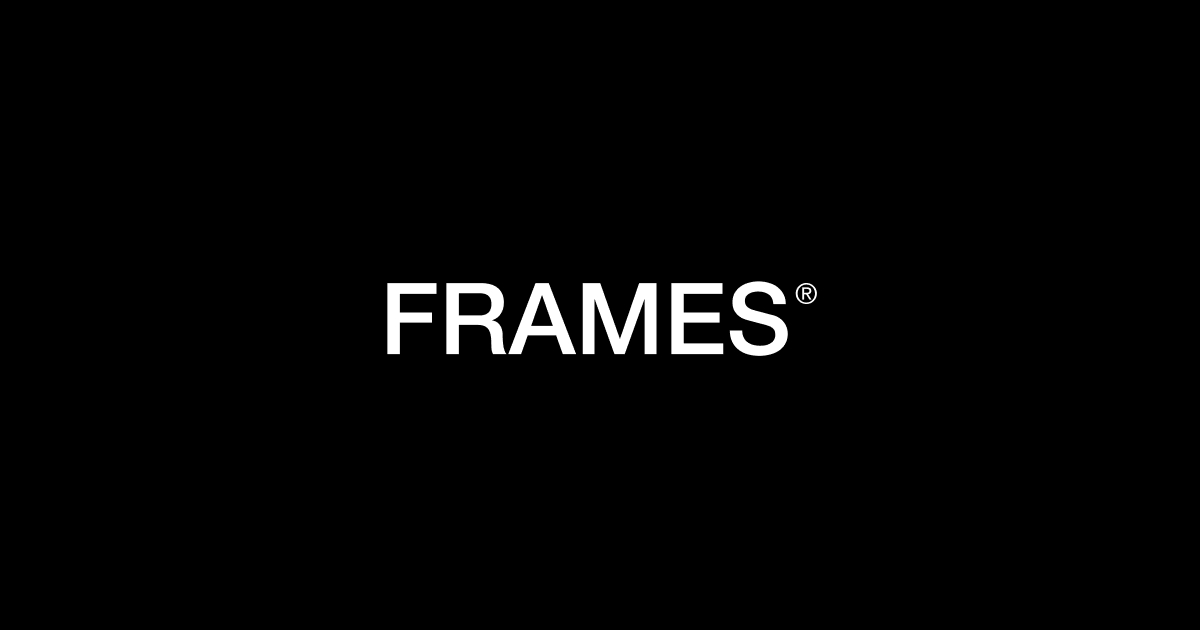
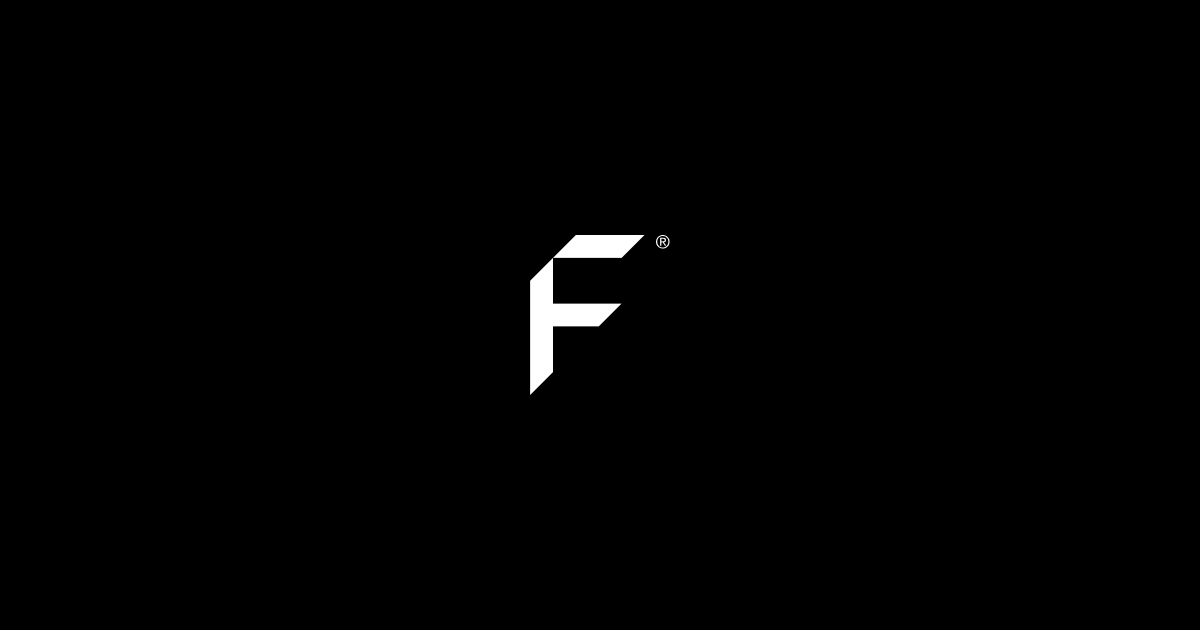
update og-image

Changed region(s): [[0.3083, 0.4222, 0.6783, 0.6333], [0.4625, 0.3619, 0.555, 0.4222]]

diff --git a/th/index.html b/th/index.html
@@ -39,14 +39,14 @@
         <meta name="twitter:creator" content="@withframes">
         <meta name="twitter:title" content="Frames - สมุดบันทึกและเมตาดาต้าสำหรับภาพฟิล์ม">
         <meta name="twitter:description" content="Frames คือแอปที่จำเป็นสำหรับช่างภาพฟิล์ม บันทึกการตั้งค่า หมายเหตุ และเพิ่มเมตาดาต้าให้กับภาพสแกนของคุณ มีให้บริการสำหรับ iPhone และ Mac">
-        <meta name="twitter:image" content="https://withframes.com/library/img/th/og-image.jpg">
+        <meta name="twitter:image" content="https://withframes.com/og-image.jpg">
         <!-- Open Graph -->
         <meta property="og:type" content="website">
         <meta property="og:site_name" content="Frames">
         <meta property="og:title" content="Frames - สมุดบันทึกและเมตาดาต้าสำหรับภาพฟิล์ม">
         <meta property="og:description" content="Frames คือแอปที่จำเป็นสำหรับช่างภาพฟิล์ม บันทึกการตั้งค่า หมายเหตุ และเพิ่มเมตาดาต้าให้กับภาพสแกนของคุณ มีให้บริการสำหรับ iPhone และ Mac">
         <meta property="og:url" content="https://withframes.com/th/">
-        <meta property="og:image" content="https://withframes.com/library/img/th/og-image.jpg">
+        <meta property="og:image" content="https://withframes.com/og-image.jpg">
         <meta property="og:locale" content="th_TH">
 
         <link rel="shortcut icon" href="/favicon.ico">

diff --git a/hi/index.html b/hi/index.html
@@ -39,14 +39,14 @@
         <meta name="twitter:creator" content="@withframes">
         <meta name="twitter:title" content="Frames - फिल्म फोटोग्राफी के लिए नोटबुक और मेटाडेटा ऐप">
         <meta name="twitter:description" content="Frames फिल्म फोटोग्राफर्स के लिए जरूरी ऐप है। अपनी सेटिंग्स, नोट्स रिकॉर्ड करें और स्कैन में मेटाडेटा जोड़ें। iPhone और Mac के लिए उपलब्ध।">
-        <meta name="twitter:image" content="https://withframes.com/library/img/hi/og-image.jpg">
+        <meta name="twitter:image" content="https://withframes.com/og-image.jpg">
         <!-- Open Graph -->
         <meta property="og:type" content="website">
         <meta property="og:site_name" content="Frames">
         <meta property="og:title" content="Frames - फिल्म फोटोग्राफी के लिए नोटबुक और मेटाडेटा ऐप">
         <meta property="og:description" content="Frames फिल्म फोटोग्राफर्स के लिए जरूरी ऐप है। अपनी सेटिंग्स, नोट्स रिकॉर्ड करें और स्कैन में मेटाडेटा जोड़ें। iPhone और Mac के लिए उपलब्ध।">
         <meta property="og:url" content="https://withframes.com/hi/">
-        <meta property="og:image" content="https://withframes.com/library/img/hi/og-image.jpg">
+        <meta property="og:image" content="https://withframes.com/og-image.jpg">
         <meta property="og:locale" content="hi_IN">
 
         <link rel="shortcut icon" href="/favicon.ico">

diff --git a/ru/index.html b/ru/index.html
@@ -39,14 +39,14 @@
         <meta name="twitter:creator" content="@withframes">
         <meta name="twitter:title" content="Frames - Блокнот и метаданные для плёночной фотографии">
         <meta name="twitter:description" content="Frames — незаменимое приложение для плёночных фотографов. Записывайте настройки, заметки и добавляйте метаданные к сканам. Доступно для iPhone и Mac.">
-        <meta name="twitter:image" content="https://withframes.com/library/img/ru/og-image.jpg">
+        <meta name="twitter:image" content="https://withframes.com/og-image.jpg">
         <!-- Open Graph -->
         <meta property="og:type" content="website">
         <meta property="og:site_name" content="Frames">
         <meta property="og:title" content="Frames - Блокнот и метаданные для плёночной фотографии">
         <meta property="og:description" content="Frames — незаменимое приложение для плёночных фотографов. Записывайте настройки, заметки и добавляйте метаданные к сканам. Доступно для iPhone и Mac.">
         <meta property="og:url" content="https://withframes.com/ru/">
-        <meta property="og:image" content="https://withframes.com/library/img/ru/og-image.jpg">
+        <meta property="og:image" content="https://withframes.com/og-image.jpg">
         <meta property="og:locale" content="ru_RU">
 
         <link rel="shortcut icon" href="/favicon.ico">

diff --git a/tr/index.html b/tr/index.html
@@ -39,14 +39,14 @@
         <meta name="twitter:creator" content="@withframes">
         <meta name="twitter:title" content="Frames - Film fotoğrafçıları için not defteri ve meta veri uygulaması">
         <meta name="twitter:description" content="Frames, film fotoğrafçılarının vazgeçilmez uygulamasıdır. Çekim ayarlarınızı kaydedin, notlar alın ve taramalarınıza meta veri ekleyin. iPhone ve Mac için kullanılabilir.">
-        <meta name="twitter:image" content="https://withframes.com/library/img/tr/og-image.jpg">
+        <meta name="twitter:image" content="https://withframes.com/og-image.jpg">
         <!-- Open Graph -->
         <meta property="og:type" content="website">
         <meta property="og:site_name" content="Frames">
         <meta property="og:title" content="Frames - Film fotoğrafçıları için not defteri ve meta veri uygulaması">
         <meta property="og:description" content="Frames, film fotoğrafçılarının vazgeçilmez uygulamasıdır. Çekim ayarlarınızı kaydedin, notlar alın ve taramalarınıza meta veri ekleyin. iPhone ve Mac için kullanılabilir.">
         <meta property="og:url" content="https://withframes.com/tr/">
-        <meta property="og:image" content="https://withframes.com/library/img/tr/og-image.jpg">
+        <meta property="og:image" content="https://withframes.com/og-image.jpg">
         <meta property="og:locale" content="tr_TR">
 
         <link rel="shortcut icon" href="/favicon.ico">

diff --git a/ja/index.html b/ja/index.html
@@ -39,14 +39,14 @@
         <meta name="twitter:creator" content="@withframes">
         <meta name="twitter:title" content="Frames - フィルム写真のためのメタデータ管理アプリ">
         <meta name="twitter:description" content="Framesはフィルム写真家の必携アプリです。撮影設定やメモを記録し、スキャン画像にメタデータを埋め込めます。iPhoneとMacで利用可能。">
-        <meta name="twitter:image" content="https://withframes.com/library/img/ja/og-image.jpg">
+        <meta name="twitter:image" content="https://withframes.com/og-image.jpg">
         <!-- Open Graph -->
         <meta property="og:type" content="website">
         <meta property="og:site_name" content="Frames">
         <meta property="og:title" content="Frames - フィルム写真のためのメタデータ管理アプリ">
         <meta property="og:description" content="Framesはフィルム写真家の必携アプリです。撮影設定やメモを記録し、スキャン画像にメタデータを埋め込めます。iPhoneとMacで利用可能。">
         <meta property="og:url" content="https://withframes.com/ja/">
-        <meta property="og:image" content="https://withframes.com/library/img/ja/og-image.jpg">
+        <meta property="og:image" content="https://withframes.com/og-image.jpg">
         <meta property="og:locale" content="ja_JP">
 
         <link rel="shortcut icon" href="/favicon.ico">

diff --git a/ko/index.html b/ko/index.html
@@ -39,14 +39,14 @@
         <meta name="twitter:creator" content="@withframes">
         <meta name="twitter:title" content="Frames - 필름 사진을 위한 메타데이터 노트 앱">
         <meta name="twitter:description" content="Frames는 필름 사진가를 위한 필수 앱입니다. 촬영 설정을 기록하고 스캔한 이미지에 메타데이터를 추가하세요. iPhone과 Mac에서 사용 가능합니다.">
-        <meta name="twitter:image" content="https://withframes.com/library/img/ko/og-image.jpg">
+        <meta name="twitter:image" content="https://withframes.com/og-image.jpg">
         <!-- Open Graph -->
         <meta property="og:type" content="website">
         <meta property="og:site_name" content="Frames">
         <meta property="og:title" content="Frames - 필름 사진을 위한 메타데이터 노트 앱">
         <meta property="og:description" content="Frames는 필름 사진가를 위한 필수 앱입니다. 촬영 설정을 기록하고 스캔한 이미지에 메타데이터를 추가하세요. iPhone과 Mac에서 사용 가능합니다.">
         <meta property="og:url" content="https://withframes.com/ko/">
-        <meta property="og:image" content="https://withframes.com/library/img/ko/og-image.jpg">
+        <meta property="og:image" content="https://withframes.com/og-image.jpg">
         <meta property="og:locale" content="ko_KR">
 
         <link rel="shortcut icon" href="/favicon.ico">

diff --git a/sv/index.html b/sv/index.html
@@ -39,14 +39,14 @@
         <meta name="twitter:creator" content="@withframes">
         <meta name="twitter:title" content="Frames - Anteckningar och metadata för analog fotografering">
         <meta name="twitter:description" content="Frames är den ultimata appen för analogfotografer. Dokumentera dina inställningar, anteckningar och lägg till metadata till dina skanningar. Tillgänglig för iPhone och Mac.">
-        <meta name="twitter:image" content="https://withframes.com/library/img/sv/og-image.jpg">
+        <meta name="twitter:image" content="https://withframes.com/og-image.jpg">
         <!-- Open Graph -->
         <meta property="og:type" content="website">
         <meta property="og:site_name" content="Frames">
         <meta property="og:title" content="Frames - Anteckningar och metadata för analog fotografering">
         <meta property="og:description" content="Frames är den ultimata appen för analogfotografer. Dokumentera dina inställningar, anteckningar och lägg till metadata till dina skanningar. Tillgänglig för iPhone och Mac.">
         <meta property="og:url" content="https://withframes.com/sv/">
-        <meta property="og:image" content="https://withframes.com/library/img/sv/og-image.jpg">
+        <meta property="og:image" content="https://withframes.com/og-image.jpg">
         <meta property="og:locale" content="sv_SE">
 
         <link rel="shortcut icon" href="/favicon.ico">

diff --git a/pt/index.html b/pt/index.html
@@ -39,14 +39,14 @@
         <meta name="twitter:creator" content="@withframes">
         <meta name="twitter:title" content="Frames - Caderno de notas e metadados para fotografia analógica">
         <meta name="twitter:description" content="Frames é o aplicativo essencial para fotógrafos analógicos. Registre configurações, notas e integre metadados aos seus scans. Disponível para iPhone e Mac.">
-        <meta name="twitter:image" content="https://withframes.com/library/img/pt/og-image.jpg">
+        <meta name="twitter:image" content="https://withframes.com/og-image.jpg">
         <!-- Open Graph -->
         <meta property="og:type" content="website">
         <meta property="og:site_name" content="Frames">
         <meta property="og:title" content="Frames - Caderno de notas e metadados para fotografia analógica">
         <meta property="og:description" content="Frames é o aplicativo essencial para fotógrafos analógicos. Registre configurações, notas e integre metadados aos seus scans. Disponível para iPhone e Mac.">
         <meta property="og:url" content="https://withframes.com/pt/">
-        <meta property="og:image" content="https://withframes.com/library/img/pt/og-image.jpg">
+        <meta property="og:image" content="https://withframes.com/og-image.jpg">
         <meta property="og:locale" content="pt_PT">
 
         <link rel="shortcut icon" href="/favicon.ico">

diff --git a/es/index.html b/es/index.html
@@ -39,14 +39,14 @@
         <meta name="twitter:creator" content="@withframes">
         <meta name="twitter:title" content="Frames - Cuaderno de notas y metadatos para fotografía analógica">
         <meta name="twitter:description" content="Frames es la aplicación esencial para fotógrafos analógicos. Registra ajustes, notas e integra metadatos en tus escaneos. Disponible para iPhone y Mac.">
-        <meta name="twitter:image" content="https://withframes.com/library/img/es/og-image.jpg">
+        <meta name="twitter:image" content="https://withframes.com/og-image.jpg">
         <!-- Open Graph -->
         <meta property="og:type" content="website">
         <meta property="og:site_name" content="Frames">
         <meta property="og:title" content="Frames - Cuaderno de notas y metadatos para fotografía analógica">
         <meta property="og:description" content="Frames es la aplicación esencial para fotógrafos analógicos. Registra ajustes, notas e integra metadatos en tus escaneos. Disponible para iPhone y Mac.">
         <meta property="og:url" content="https://withframes.com/es/">
-        <meta property="og:image" content="https://withframes.com/library/img/es/og-image.jpg">
+        <meta property="og:image" content="https://withframes.com/og-image.jpg">
         <meta property="og:locale" content="es_ES">
 
         <link rel="shortcut icon" href="/favicon.ico">

diff --git a/fr/index.html b/fr/index.html
@@ -39,14 +39,14 @@
         <meta name="twitter:creator" content="@withframes">
         <meta name="twitter:title" content="Frames - Carnet de notes et métadonnées pour la photo argentique">
         <meta name="twitter:description" content="Frames, l'application essentielle pour photographes argentiques. Notez réglages et infos, puis ajoutez les métadonnées à vos scans. iPhone et Mac.">
-        <meta name="twitter:image" content="https://withframes.com/library/img/fr/og-image.jpg">
+        <meta name="twitter:image" content="https://withframes.com/og-image.jpg">
         <!-- Open Graph -->
         <meta property="og:type" content="website">
         <meta property="og:site_name" content="Frames">
         <meta property="og:title" content="Frames - Carnet de notes et métadonnées pour la photo argentique">
         <meta property="og:description" content="Frames, l'application essentielle pour photographes argentiques. Notez réglages et infos, puis ajoutez les métadonnées à vos scans. iPhone et Mac.">
         <meta property="og:url" content="https://withframes.com/fr/">
-        <meta property="og:image" content="https://withframes.com/library/img/fr/og-image.jpg">
+        <meta property="og:image" content="https://withframes.com/og-image.jpg">
         <meta property="og:locale" content="fr_FR">
 
         <link rel="shortcut icon" href="/favicon.ico">

diff --git a/de/index.html b/de/index.html
@@ -39,14 +39,14 @@
         <meta name="twitter:creator" content="@withframes">
         <meta name="twitter:title" content="Frames - Notizbuch und Metadaten für Analogfotografie">
         <meta name="twitter:description" content="Frames ist die App für Analogfotografen. Speichern Sie Einstellungen, Notizen und fügen Sie Metadaten zu Ihren Scans hinzu. Verfügbar für iPhone und Mac.">
-        <meta name="twitter:image" content="https://withframes.com/library/img/de/og-image.jpg">
+        <meta name="twitter:image" content="https://withframes.com/og-image.jpg">
         <!-- Open Graph -->
         <meta property="og:type" content="website">
         <meta property="og:site_name" content="Frames">
         <meta property="og:title" content="Frames - Notizbuch und Metadaten für Analogfotografie">
         <meta property="og:description" content="Frames ist die App für Analogfotografen. Speichern Sie Einstellungen, Notizen und fügen Sie Metadaten zu Ihren Scans hinzu. Verfügbar für iPhone und Mac.">
         <meta property="og:url" content="https://withframes.com/de/">
-        <meta property="og:image" content="https://withframes.com/library/img/de/og-image.jpg">
+        <meta property="og:image" content="https://withframes.com/og-image.jpg">
         <meta property="og:locale" content="de_DE">
 
         <link rel="shortcut icon" href="/favicon.ico">

diff --git a/pl/index.html b/pl/index.html
@@ -39,14 +39,14 @@
         <meta name="twitter:creator" content="@withframes">
         <meta name="twitter:title" content="Frames - Notatnik i metadane dla fotografii analogowej">
         <meta name="twitter:description" content="Frames to niezastąpiona aplikacja dla fotografów analogowych. Zapisz ustawienia, notatki i dodaj metadane do swoich skanów. Dostępne dla iPhone'a i Maca.">
-        <meta name="twitter:image" content="https://withframes.com/library/img/pl/og-image.jpg">
+        <meta name="twitter:image" content="https://withframes.com/og-image.jpg">
         <!-- Open Graph -->
         <meta property="og:type" content="website">
         <meta property="og:site_name" content="Frames">
         <meta property="og:title" content="Frames - Notatnik i metadane dla fotografii analogowej">
         <meta property="og:description" content="Frames to niezastąpiona aplikacja dla fotografów analogowych. Zapisz ustawienia, notatki i dodaj metadane do swoich skanów. Dostępne dla iPhone'a i Maca.">
         <meta property="og:url" content="https://withframes.com/pl/">
-        <meta property="og:image" content="https://withframes.com/library/img/pl/og-image.jpg">
+        <meta property="og:image" content="https://withframes.com/og-image.jpg">
         <meta property="og:locale" content="pl_PL">
 
         <link rel="shortcut icon" href="/favicon.ico">
